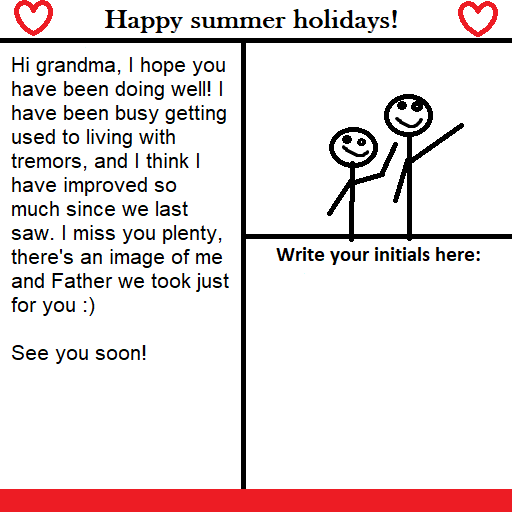
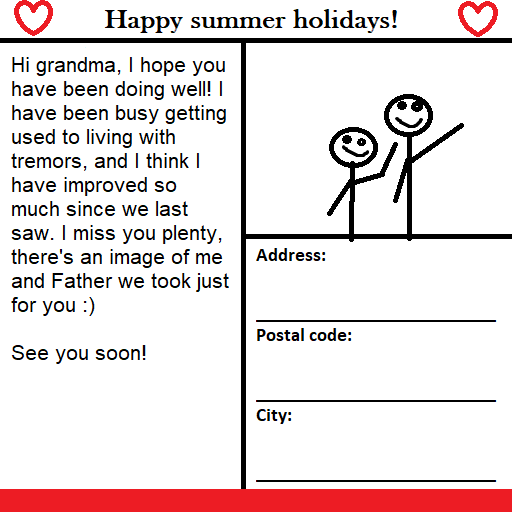
Sorting task fixed, Books work now, Serving task has a time limit now

diff --git a/Muuta_takasin_My project/Assets/Scenes/Task/HoloTaskHandler.cs b/Muuta_takasin_My project/Assets/Scenes/Task/HoloTaskHandler.cs
@@ -92,6 +92,7 @@ public class HoloTaskHandler : MonoBehaviour
         if (taskStarted && Time.time - startTime > 120)
         {
             taskCompleted = true;
+            taskCompletionHandler.SetAsCompleted();
             Debug.Log("Time ran out");
         }
         return taskCompleted;
